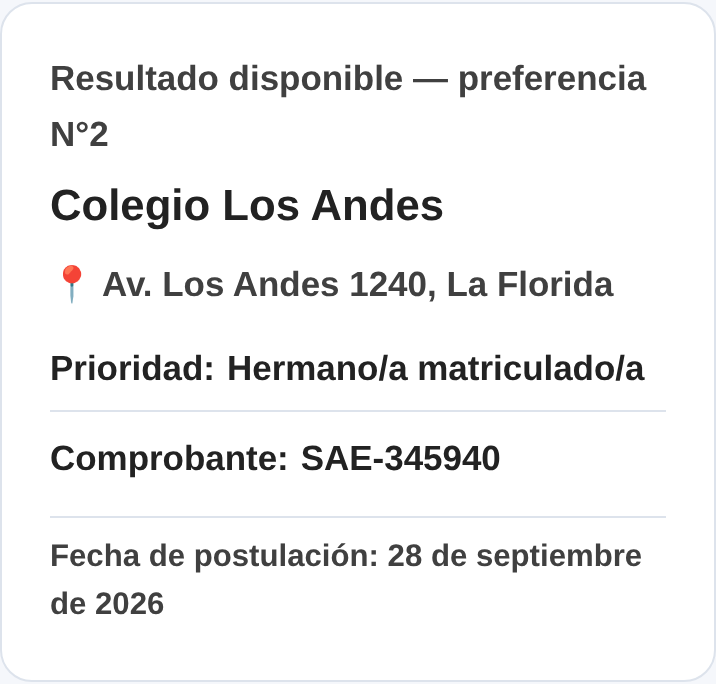
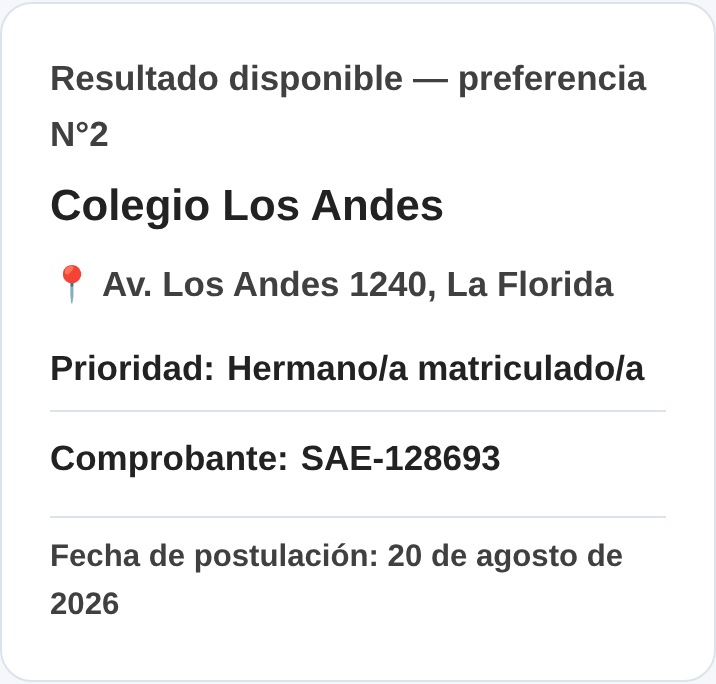
docs(tesis): aplica la revisión del Cap. 4 y corrige la Tabla 3.1
- Cap. 4: 2 bloqueantes y 16 observaciones del revisor-memoria aplicadas
  (etapa del Inicio, ClaveÚnica neutral, porcentaje vs. "X de cada 100",
  simplificación declarada, condición A/B, brechas anticipadas, tabla).
- Tabla 3.1 a longtable: desbordaba la página y se cortaban filas.
- Prototipo: "Estás en", "Tamaño de texto", "¿Es tu primera vez aquí?".
- Capturas regeneradas con fecha simulada del período de postulación.
- Plan: decisión n.º 8 (¿el SAE real usa ClaveÚnica?) y registro.

Claude-Session: https://claude.ai/code/session_01YAJGQMJ7mUVfTirNi6pa6u

diff --git a/sae-react/src/pages/InicioPage.jsx b/sae-react/src/pages/InicioPage.jsx
@@ -127,7 +127,7 @@ export default function InicioPage() {
         <div className="welcome-banner" role="region" aria-label="Bienvenida primera vez">
           <div className="welcome-banner__inner">
             <span className="welcome-banner__msg">
-              Es tu primera vez aquí? Te mostramos cómo funciona el SAE en 3 pasos cortos.
+              ¿Es tu primera vez aquí? Te mostramos cómo funciona el SAE en 3 pasos cortos.
             </span>
             <div className="welcome-banner__actions">
               <button

diff --git a/sae-react/src/components/TextSizeBar.jsx b/sae-react/src/components/TextSizeBar.jsx
@@ -12,10 +12,10 @@ export default function TextSizeBar({ pageName }) {
     <div className="context-bar" role="status" aria-live="polite">
       <div className="context-bar__inner">
         <p>
-          Estas en: <strong>{pageName}</strong>
+          Estás en: <strong>{pageName}</strong>
         </p>
         <div className="context-bar__text-size">
-          <span>Tamano de texto</span>
+          <span>Tamaño de texto</span>
           <button
             type="button"
             className={!textoGrande ? 'is-on' : ''}

diff --git a/proyecto-tesis/capitulos/04_propuesta.tex b/proyecto-tesis/capitulos/04_propuesta.tex
@@ -1,8 +1,8 @@
 \chapter{Propuesta}\label{cap:propuesta}
 
-Este capítulo presenta el prototipo desarrollado en la Fase~3 (Sección~\ref{sec:fase3-caso}) recorriéndolo pantalla por pantalla. Para cada pantalla se describe qué hace, qué brecha del diagnóstico del SAE real aborda (Sección~\ref{sec:res-diagnostico}) y qué principio de diseño aplica, sea de la revisión de literatura (Sección~\ref{sec:que-funciona}) o de los marcos de diseño de interacción humano-IA (Sección~\ref{sec:fase3-marcos}). El capítulo describe lo que se construyó; si esas decisiones mejoran la comprensión, la confianza y la percepción de justicia de las familias es lo que responderá el estudio comparativo (Sección~\ref{sec:estudio-comparativo}), cuyos resultados aún no existen.
+Este capítulo presenta el prototipo desarrollado en la Fase~3 (Sección~\ref{sec:fase3}) recorriéndolo pantalla por pantalla. Para cada pantalla se describe qué hace, qué brecha del diagnóstico del SAE real aborda y qué principio de diseño aplica, sea de la revisión de literatura (Sección~\ref{sec:que-funciona}) o de los marcos de diseño de interacción humano-IA (Sección~\ref{sec:fase3-marcos}). El capítulo describe lo que se construyó; si esas decisiones mejoran la comprensión, la confianza y la percepción de justicia de las familias es lo que responderá el estudio comparativo (Sección~\ref{sec:estudio-comparativo}), cuyos resultados aún no existen. Las brechas son las que el diagnóstico heurístico identificó como prioritarias y que se detallan en la Sección~\ref{sec:res-diagnostico}: transparencia y apertura (0\,\% de cumplimiento en el sitio informativo), inclusión (0\,\%), búsqueda y encontrabilidad, audiovisualidad, interoperabilidad con ClaveÚnica y legibilidad.
 
-Las capturas se tomaron del prototipo en funcionamiento, a 390~píxeles de ancho ---el tamaño de un teléfono, que es el acceso principal del arquetipo Daniela González---, recorriendo el caso de la familia Muñoz González con la lista y el orden fijos del estudio comparativo. Todos los establecimientos, personas y cifras que aparecen en ellas son ficticios.
+Las capturas se tomaron del prototipo en funcionamiento, a 390~píxeles de ancho ---el tamaño de un teléfono, que es el acceso principal del arquetipo Daniela González---, recorriendo el caso de la familia Muñoz González con la lista y el orden fijos del estudio comparativo. Los establecimientos, las personas y las cifras de los establecimientos que aparecen en ellas son ficticios; las fechas corresponden al calendario oficial del proceso de admisión 2027, y las capturas se tomaron simulando un día dentro del período de postulación.
 
 \section{Visión general}\label{sec:prop-general}
 
@@ -14,11 +14,11 @@ El prototipo es una aplicación web que reproduce los dos componentes del SAE ev
     \item \textbf{Conocer el resultado}: ver el establecimiento asignado y por qué (Sección~\ref{sec:prop-resultado}).
 \end{enumerate}
 
-Sobre esas pantallas se aplican de manera transversal los principios de la interfaz: español de Chile con tuteo, lenguaje claro de nivel sexto básico, diseño pensado primero para el teléfono, un tamaño de letra base aumentado con una opción ``Grande'' visible en cada página, y texto de alto contraste (Sección~\ref{sec:accesibilidad}). Además, el mismo prototipo puede funcionar en una \textbf{condición de control} que oculta toda la capa de explicación del algoritmo, requerida por el estudio comparativo (Sección~\ref{sec:prop-control}).
+Sobre esas pantallas se aplican de manera transversal los principios de la interfaz: español de Chile con tuteo, lenguaje claro de nivel sexto básico, diseño pensado primero para el teléfono, un tamaño de letra base aumentado con una opción ``Grande'' visible en cada página, y texto de alto contraste (Sección~\ref{sec:accesibilidad}). Las pantallas que siguen corresponden a la \textbf{condición~A} del estudio comparativo, el prototipo completo; el mismo prototipo puede funcionar también en la \textbf{condición~B}, de control, que oculta toda la capa de explicación del algoritmo (Sección~\ref{sec:prop-control}).
 
 \section{Informarse antes de postular}\label{sec:prop-informarse}
 
-\textbf{Inicio y ficha de establecimiento.} La página de inicio (Figura~\ref{fig:prop-inicio}, izquierda) muestra en qué etapa del proceso se está y hasta cuándo se puede postular, calculado a partir del calendario oficial, y ofrece un recorrido guiado para quien entra por primera vez. Debajo, un buscador por nombre o comuna permite ordenar los establecimientos, entre otros criterios, por demanda o por vacantes. Aborda la brecha de \emph{búsqueda y encontrabilidad} del diagnóstico. La ficha de cada establecimiento reúne en una sola página su identidad institucional, sus vacantes y postulantes del año anterior, y una estimación de la probabilidad de obtener un cupo sin ninguna prioridad, expresada como ``26 de cada 100 postulantes'' junto a una matriz de cien íconos (Figura~\ref{fig:prop-inicio}, derecha). Ese formato de frecuencia, en lugar de un porcentaje aislado, responde a la evidencia sobre comunicación de riesgo para audiencias con numeracidad básica-intermedia recogida en los marcos de diseño, y combina gráfico y cifra según el principio de presentación multidimensional.
+\textbf{Inicio y ficha de establecimiento.} La página de inicio (Figura~\ref{fig:prop-inicio}, izquierda) muestra la etapa del proceso y hasta cuándo se puede postular, y ofrece un recorrido guiado para quien entra por primera vez. Debajo, un buscador por nombre o comuna permite ordenar los establecimientos, entre otros criterios, por demanda o por vacantes. Aborda la brecha de \emph{búsqueda y encontrabilidad}, que el sitio oficial también cerró en parte con su vitrina de establecimientos después del diagnóstico (Sección~\ref{sec:res-sitio-oficial}). La ficha de cada establecimiento reúne en una sola página su identidad institucional, sus vacantes y postulantes del año anterior, y una estimación de la probabilidad de obtener un cupo sin ninguna prioridad, expresada como ``26 de cada 100 postulantes'' junto a una matriz de cien íconos (Figura~\ref{fig:prop-inicio}, derecha). Ese formato de frecuencia, en lugar de un porcentaje aislado, responde a la evidencia sobre comunicación de riesgo para audiencias con numeracidad básica-intermedia recogida en los marcos de diseño, y combina gráfico y cifra según el principio de presentación multidimensional.
 
 \begin{figure}[htbp]
 \centering
@@ -32,7 +32,7 @@ Sobre esas pantallas se aplican de manera transversal los principios de la inter
 \label{fig:prop-inicio}
 \end{figure}
 
-\textbf{Cómo funciona el algoritmo y el proceso paso a paso.} La sección ``¿Cómo funciona?'' (Figura~\ref{fig:prop-algoritmo}, izquierda) explica en pasos cortos cómo se asigna un establecimiento: la familia arma su lista, el sistema aplica las prioridades que fija la ley y, cuando hay más postulantes que cupos, un sorteo por establecimiento. Primero entrega lo esencial y deja el detalle para quien lo busca, según el principio de divulgación progresiva. Incluye un simulador en que la persona elige establecimientos y prioridades y ve el resultado, y una reproducción paso a paso de cómo el sistema recorre su lista, aplicando el principio de controles interactivos con retroalimentación. Es la respuesta directa a la brecha más severa del diagnóstico: el 0\,\% de cumplimiento en \emph{transparencia y apertura}, que se explica porque no existe ninguna sección que explique el algoritmo. La vista ``El proceso paso a paso'' (Figura~\ref{fig:prop-algoritmo}, derecha) ordena las cinco etapas oficiales ---postulación, asignación, resultados, período complementario y matrícula---, destaca cinco reglas de alto impacto antes de empezar e incluye el calendario del proceso de admisión 2027.
+\textbf{Cómo funciona el algoritmo y el proceso paso a paso.} La sección ``¿Cómo funciona?'' (Figura~\ref{fig:prop-algoritmo}, izquierda) explica en pasos cortos cómo se asigna un establecimiento: la familia arma su lista, el sistema aplica las prioridades que fija la ley y, cuando hay más postulantes que cupos, un sorteo por establecimiento. Primero entrega lo esencial y deja el detalle para quien lo busca, según el principio de divulgación progresiva. Incluye un simulador en que la persona elige establecimientos y prioridades y ve el resultado, y una reproducción paso a paso de cómo el sistema recorre su lista, aplicando el principio de controles interactivos con retroalimentación. Es la respuesta directa a una de las dos brechas con 0\,\% de cumplimiento en el diagnóstico, \emph{transparencia y apertura}, que se explica porque no existe ninguna sección que explique el algoritmo. La vista ``El proceso paso a paso'' (Figura~\ref{fig:prop-algoritmo}, derecha) ordena las cinco etapas oficiales ---postulación, asignación, resultados, período complementario y matrícula--- e indica cuál está en curso según la fecha, destaca cinco reglas de alto impacto antes de empezar e incluye el calendario del proceso de admisión 2027.
 
 \begin{figure}[htbp]
 \centering
@@ -48,11 +48,11 @@ Sobre esas pantallas se aplican de manera transversal los principios de la inter
 
 \section{El flujo de postulación}\label{sec:prop-postular}
 
-El flujo de postulación es el caso de estudio central de la validación. Reproduce los datos, las declaraciones y las reglas del SAE real ---documentados a partir del sitio oficial y del video instructivo del Ministerio de Educación---, y agrega sobre ellos la capa de explicación que el sistema real no tiene.
+El flujo de postulación es el caso de estudio central de la validación. Reproduce los datos y las reglas del SAE real, y la mayoría de sus declaraciones ---documentados a partir del sitio oficial y del video instructivo del Ministerio de Educación---, con una simplificación deliberada que se indica en el paso~3, y agrega sobre ellos la capa de explicación que el sistema real no tiene.
 
 \subsection{Paso 1: identificarse}
 
-Tras ingresar con ClaveÚnica, la familia ve a sus hijos e hijas registrados en el Estado, con el curso que cursa hoy cada uno, su establecimiento actual y el curso al que entraría si postula (Figura~\ref{fig:prop-paso1}, izquierda). Nadie viene marcado: la familia elige a quién postular. Si marca a más de uno, la pantalla explica la postulación familiar en bloque, y a quien no se marca le explica que sigue en su establecimiento y no pierde su matrícula. Después, los datos de la estudiante y el domicilio aparecen ya cargados, para que la familia los \textbf{verifique} en lugar de escribirlos, con una opción para corregirlos, y se declara ser su apoderado o apoderada legal (Figura~\ref{fig:prop-paso1}, derecha). La precarga desde ClaveÚnica aborda la brecha de \emph{interoperabilidad}: en la plataforma real la cuenta de apoderado se crea por separado, pese a que ClaveÚnica ya contiene esos datos.
+Tras ingresar con ClaveÚnica, la familia ve a sus hijos e hijas registrados en el Estado, con el curso que cursa hoy cada uno, su establecimiento actual y el curso al que entraría si postula (Figura~\ref{fig:prop-paso1}, izquierda). Nadie viene marcado: la familia elige a quién postular. Si marca a más de uno, la pantalla explica la postulación familiar en bloque, y a quien no se marca le explica que sigue en su establecimiento y no pierde su matrícula. Después, los datos de la estudiante y el domicilio aparecen ya cargados, para que la familia los \textbf{verifique} en lugar de escribirlos, con una opción para corregirlos, y se declara ser su apoderado o apoderada legal (Figura~\ref{fig:prop-paso1}, derecha). El ingreso con ClaveÚnica, en lugar de una cuenta y contraseña propias de la plataforma, responde a la brecha de \emph{interoperabilidad} del diagnóstico. En este paso hay además un recuadro desplegable, ``Antes de empezar: cómo se decide tu resultado'', que resume qué considera el algoritmo y qué no ---no hay puntaje, notas ni mérito--- antes de pedir cualquier dato.
 
 \begin{figure}[htbp]
 \centering
@@ -68,7 +68,7 @@ Tras ingresar con ClaveÚnica, la familia ve a sus hijos e hijas registrados en 
 
 \subsection{Paso 2: armar y ordenar la lista}
 
-El paso~2 separa el catálogo de establecimientos disponibles (Figura~\ref{fig:prop-paso2}, izquierda) de la lista propia, ordenada por preferencia (Figura~\ref{fig:prop-paso2}, derecha). Como en el SAE real, no hay tope de establecimientos y la región funciona como filtro, no como restricción. En la lista, cada establecimiento muestra su número de preferencia, su demanda, sus vacantes y la probabilidad estimada de obtener un cupo ---26 de cada 100 en el Colegio San Martín, donde la familia no tiene ningún vínculo, y 99 de cada 100 en el Colegio Los Andes, donde estudia una hermana---. Debajo, un recuadro indica la prioridad que la familia tiene \textbf{en ese establecimiento}: hermano o hermana, hijo o hija de funcionario y exalumno o exalumna son prioridades que valen solo en el colegio correspondiente. Esta es una explicación contextualizada a la situación de la familia y no una descripción general del sistema. La lista se reordena con botones o arrastrando, y un lector de pantalla anuncia cada cambio.
+El paso~2 separa el catálogo de establecimientos disponibles (Figura~\ref{fig:prop-paso2}, izquierda) de la lista propia, ordenada por preferencia (Figura~\ref{fig:prop-paso2}, derecha). Como en el SAE real, no hay tope de establecimientos ni restricción regional. En la lista, cada establecimiento muestra su número de preferencia, su demanda, sus vacantes y la probabilidad estimada de obtener un cupo, como un porcentaje breve junto al nombre ---26\,\% en el Colegio San Martín, donde la familia no tiene ningún vínculo, y 99\,\% en el Colegio Los Andes, donde estudia una hermana---; para lectores de pantalla, la misma cifra se anuncia como ``X de cada 100''. Debajo, un recuadro indica la prioridad que la familia tiene \textbf{en ese establecimiento}: hermano o hermana, hijo o hija de funcionario y exalumno o exalumna son prioridades que valen solo en el colegio correspondiente. Esta es una explicación contextualizada a la situación de la familia y no una descripción general del sistema. La lista se reordena con botones o arrastrando, y un lector de pantalla anuncia cada cambio.
 
 \begin{figure}[htbp]
 \centering
@@ -86,7 +86,7 @@ La decisión de diseño más directamente ligada a la pregunta de investigación
 
 \subsection{Paso 3: revisar y enviar}
 
-El paso~3 resume la postulación completa antes de enviarla, con un enlace para editar cada sección, la postulación en bloque con el hermano y la fecha límite del proceso (Figura~\ref{fig:prop-paso3}, derecha). La aceptación de la jornada y del proyecto educativo de los establecimientos, que el SAE real exige, se pide una sola vez al enviar, para toda la lista. Al confirmar, la familia puede descargar un comprobante.
+El paso~3 resume la postulación completa antes de enviarla, con un enlace para editar cada sección, la postulación en bloque con el hermano y la fecha límite del proceso (Figura~\ref{fig:prop-paso3}, derecha). Aquí está la simplificación deliberada respecto del SAE real: allí la jornada y el proyecto educativo se aceptan por cada establecimiento, mientras que en el prototipo se informan una sola vez al enviar, para toda la lista, porque su repetición idéntica en cada establecimiento agregaba texto sin información nueva para la familia. Al confirmar, la familia puede descargar un comprobante.
 
 \begin{figure}[htbp]
 \centering
@@ -120,7 +120,7 @@ Debajo, la sección ``¿Por qué te asignaron este colegio?'' (Figura~\ref{fig:p
 
 \section{La condición de control}\label{sec:prop-control}
 
-El estudio comparativo necesita una versión del prototipo sin la capa de explicación, que funcione como aproximación al SAE real. En lugar de construir una segunda aplicación, el mismo prototipo tiene un modo de control que el moderador activa al inicio de cada sesión. En ese modo se ocultan la sección que explica el algoritmo, las probabilidades estimadas, el recuadro sobre el orden de la lista y la explicación del resultado; se conservan los elementos que son fidelidad al sistema real, como la precarga de datos, la prioridad de la familia en cada establecimiento y las declaraciones. La Figura~\ref{fig:prop-control} muestra las mismas dos pantallas que en la condición completa: la lista sin probabilidades (compárese con la Figura~\ref{fig:prop-paso2}) y el resultado sin su explicación (compárese con la Figura~\ref{fig:prop-resultado}). Como la lógica de asignación es la misma, el establecimiento asignado es idéntico en ambas condiciones.
+El estudio comparativo necesita una versión del prototipo sin la capa de explicación, que funcione como aproximación al SAE real: la condición~B. En lugar de construir una segunda aplicación, el mismo prototipo tiene un modo de control que el moderador activa al inicio de cada sesión. En ese modo se ocultan la sección que explica el algoritmo, el recuadro inicial sobre cómo se decide el resultado, las probabilidades estimadas, el recuadro sobre el orden de la lista y la explicación del resultado; se conservan el flujo de ingreso y verificación de datos, la prioridad de la familia en cada establecimiento y las declaraciones. La Figura~\ref{fig:prop-control} muestra las mismas dos pantallas que en la condición~A: la lista sin probabilidades (compárese con la Figura~\ref{fig:prop-paso2}) y el resultado sin su explicación (compárese con la Figura~\ref{fig:prop-resultado}). Como la lógica de asignación es la misma, el establecimiento asignado es idéntico en ambas condiciones.
 
 \begin{figure}[htbp]
 \centering
@@ -130,29 +130,29 @@ El estudio comparativo necesita una versión del prototipo sin la capa de explic
 \begin{minipage}[t]{0.44\textwidth}\centering
 \includegraphics[width=\linewidth,height=0.6\textheight,keepaspectratio]{imagenes/propuesta/B-resultado.png}
 \end{minipage}
-\caption{Condición de control: la lista sin probabilidades (izquierda) y el resultado sin explicación (derecha).}
+\caption{Condición~B (control): la lista sin probabilidades (izquierda) y el resultado sin explicación (derecha).}
 \label{fig:prop-control}
 \end{figure}
 
 \section{Síntesis: brechas y principios}\label{sec:prop-sintesis}
 
-La Tabla~\ref{tab:prop-sintesis} resume qué elemento de la propuesta aborda cada brecha del diagnóstico y con qué principio. La brecha de \emph{audiovisualidad} no se aborda: el prototipo no incorpora videos ni infografías animadas, lo que queda como trabajo futuro.
+La Tabla~\ref{tab:prop-sintesis} resume qué elemento de la propuesta aborda cada brecha del diagnóstico y con qué principio. La brecha de \emph{audiovisualidad} se aborda solo en parte: la reproducción animada del algoritmo y la matriz de íconos de la ficha son apoyos visuales, pero el prototipo no incorpora videotutoriales, que quedan como trabajo futuro.
 
 \begin{table}[htbp]
 \centering
 \caption{Elementos de la propuesta, brecha del diagnóstico que abordan y principio de diseño que aplican.}
 \label{tab:prop-sintesis}
 \small
-\begin{tabular}{p{4.2cm}p{3.6cm}p{5.2cm}}
+\begin{tabular}{p{4.0cm}p{3.3cm}p{4.9cm}}
 \toprule
 \textbf{Elemento} & \textbf{Brecha} & \textbf{Principio} \\
 \midrule
 Explicación del algoritmo, simulador y reproducción paso a paso & Transparencia y apertura & Divulgación progresiva; controles interactivos con retroalimentación \\
-Probabilidad por establecimiento en formato ``X de cada 100'' & Transparencia y apertura & Presentación multidimensional; comunicación de riesgo \\
-Explicación de qué hace el orden de la lista & Transparencia y apertura & Gestión de expectativas; \emph{strategy-proofness} \\
+Probabilidad estimada: ``X de cada 100'' con matriz de íconos en la ficha, porcentaje en la lista & Transparencia y apertura & Presentación multidimensional; comunicación de riesgo \\
+Explicación de qué hace el orden de la lista & Transparencia y apertura & Explicabilidad contextualizada; \emph{strategy-proofness} de la Aceptación Diferida \\
 Explicación del resultado & Transparencia y apertura & Explicabilidad contextualizada \\
-Buscador, orden de la vitrina y ficha & Búsqueda y encontrabilidad & Presentación multidimensional \\
-Precarga de datos desde ClaveÚnica & Interoperabilidad & Fidelidad al SAE real: la familia verifica los datos en lugar de escribirlos \\
+Buscador y orden de la vitrina & Búsqueda y encontrabilidad & --- (el sitio oficial la cerró en parte) \\
+Ingreso con ClaveÚnica & Interoperabilidad & --- \\
 Lenguaje claro, letra aumentada y alto contraste & Legibilidad e inclusión & Accesibilidad web \\
 \bottomrule
 \end{tabular}

diff --git a/proyecto-tesis/capitulos/03_metodologia.tex b/proyecto-tesis/capitulos/03_metodologia.tex
@@ -16,7 +16,7 @@ En paralelo, se realizó una revisión sistemática de 96 publicaciones académi
 
 Como antecedente directo y motivación inicial de este trabajo, cabe mencionar que un estudio previo del mismo equipo autor —centrado específicamente en el módulo de explicación del resultado de asignación y construido como maqueta estática en Figma— fue sometido a una prueba de usabilidad con diez personas, con resultados favorables en comprensión y confianza percibida. Ese estudio, sin embargo, corresponde a un artefacto y a una instancia de evaluación \textbf{distintos} de los abordados en esta memoria: se cita aquí únicamente como antecedente que motivó la decisión de profundizar y ampliar el prototipo al resto del flujo del SAE, no como resultado propio de este trabajo. La evaluación del prototipo desarrollado en esta memoria (Fase~3) queda descrita como pendiente en la Sección~\ref{sec:validacion}.
 
-\section{Fase 3 — Diseño y construcción iterativa del prototipo}
+\section{Fase 3 — Diseño y construcción iterativa del prototipo}\label{sec:fase3}
 
 \subsection{Caso de estudio y persona}\label{sec:fase3-caso}
 
@@ -34,15 +34,19 @@ Las decisiones de diseño del prototipo se apoyaron en dos insumos de naturaleza
 
 A diferencia de un desarrollo de software convencional con un único entregable final, este prototipo se construyó como una sucesión de iteraciones documentadas, cada una guiada por un documento de especificación explícito redactado por el autor y ejecutada con apoyo de un agente de IA generativa como herramienta de programación asistida (ver Capítulo~\ref{cap:marco}, Sección~\ref{sec:prototipado-ia}). La Tabla~\ref{tab:iteraciones} resume esta cronología, reconstruida a partir del historial de control de versiones del proyecto.
 
-\begin{table}[h]
-\centering
-\caption{Cronología de iteraciones del prototipo (mayo--septiembre de 2026).}
-\label{tab:iteraciones}
-\small
-\begin{tabular}{p{2.2cm}p{9.5cm}}
+{\small
+\begin{longtable}{p{2.2cm}p{9.5cm}}
+\caption{Cronología de iteraciones del prototipo (mayo--septiembre de 2026).}\label{tab:iteraciones}\\
 \toprule
 \textbf{Fecha} & \textbf{Hito} \\
 \midrule
+\endfirsthead
+\toprule
+\textbf{Fecha} & \textbf{Hito} \\
+\midrule
+\endhead
+\bottomrule
+\endlastfoot
 Mayo (semana 1) & Redacción de \texttt{CLAUDE.md} (especificación base del proyecto) y construcción de la \textbf{Iteración~1}: prototipo HTML autocontenido de una sola página (\texttt{prototipo\_SAE\_mejora.html}), que cubre las cinco secciones mínimas exigidas por el diagnóstico (inicio, módulo de algoritmo, ficha de colegio, flujo de postulación, panel de seguimiento). \\
 Mayo (semana 2) & Redacción de \texttt{CLAUDE\_v2.md} (especificación de mejoras) e incorporación de los documentos de investigación de soporte (revisión de literatura, informe heurístico, plan de metodología). Construcción de la \textbf{Iteración~2}: segunda versión HTML (\texttt{prototipo\_SAE\_v2.html}) que corrige limitaciones técnicas de la V1 (responsividad limitada a dos \emph{breakpoints}, buscador no funcional, simulador con lógica simplificada) y agrega funcionalidades nuevas: comparador de colegios, calendario interactivo, y una lógica de simulación más cercana al mecanismo de Aceptación Diferida. \\
 Mayo (semana 3) & \textbf{Migración de arquitectura}: el prototipo HTML monolítico se reescribe como aplicación \textbf{React + Vite}, con el objetivo de pasar de un archivo estático a una arquitectura de componentes mantenible y extensible. El contenido textual de la versión HTML se extrae programáticamente para no perder el trabajo de redacción ya validado. \\
@@ -61,9 +65,8 @@ Agosto (semana 4) & A partir del \textbf{análisis del video oficial del MINEDUC
 Septiembre (semana 1) & \textbf{Reescritura del modelo de estimación de probabilidad} (autorizada de forma explícita por el autor): se elimina la tabla fija de probabilidades por nivel de prioridad y demanda, y el umbral de asignación asociado, que no tenían calibración empírica ni representaban el mecanismo de Aceptación Diferida. En su lugar, para cada establecimiento el prototipo simula la competencia por sus cupos —vacantes y postulantes del año anterior reales del catálogo, una multitud sintética de postulantes con tramos de prioridad muestreados de una distribución poblacional documentada, la cuota del 15\,\% modelada como reserva de asientos y un sorteo aleatorio independiente por colegio— y estima la probabilidad por método de Monte Carlo (mil repeticiones con semilla fija). En paralelo se revisa el caso de estudio: la familia Muñoz González deja de tener condiciones transversales (cuota del 15\,\% y Programa de Integración Escolar), de modo que el ``Colegio San Martín'' —sin vínculo y de alta demanda— quede con una probabilidad genuinamente baja. La matriz de categorías/puntos no cambia; la lógica de asignación sí se reescribió de forma deliberada. \\
 Septiembre (semanas 1--2) & \textbf{Preparación del estudio comparativo} (Sección~\ref{sec:estudio-comparativo}). El primer paso del flujo pasa a un modo de \textbf{verificación}: la identidad, el domicilio y el grupo familiar llegan precargados desde el inicio de sesión simulado vía ClaveÚnica, y la familia los revisa en lugar de tipearlos, como en el SAE real. Se retira el guardado de borrador entre visitas, para que el estado de una sesión no pase a la siguiente. La explicación del resultado se reescribe para decir por qué no se obtuvo cada establecimiento no asignado ---más familias que cupos, ausencia de vínculo con ese establecimiento y un sorteo que vale solo para él---, y la ficha de resultado suma los pasos siguientes con sus fechas y las consecuencias de aceptar o rechazar. Se implementa la \textbf{condición de control}: un modo del mismo prototipo que oculta toda la capa de explicación del algoritmo, sin alterar el resultado de la asignación. Una auditoría independiente motiva además correcciones puntuales, entre ellas que el sorteo de cada establecimiento use su propia semilla, de modo que el desenlace en un colegio no dependa de su posición en la lista. \\
 Septiembre (semanas 2--4) & \textbf{Reducción de la carga de texto y verificación del grupo familiar}, a partir de la retroalimentación de la profesora guía sobre la densidad de la interfaz para el arquetipo Daniela González. Se sube el tamaño de fuente base de todo el sitio y el contraste del texto; los recuadros explicativos extensos pasan a ser desplegables y se consolidan los avisos redundantes; el armado de la lista se separa en dos vistas (catálogo y lista propia), y la probabilidad estimada se muestra como una etiqueta breve junto a cada establecimiento. La confirmación de la jornada y del proyecto educativo pasa de repetirse al agregar cada colegio a hacerse una sola vez, antes de enviar la postulación. En el primer paso, la familia elige dentro de su grupo familiar a quiénes postula, con una explicación de qué ocurre con quienes no postulan y de la postulación en bloque. Ninguno de estos cambios modifica la lógica de asignación ni la matriz de categorías/puntos. \\
-\bottomrule
-\end{tabular}
-\end{table}
+\end{longtable}
+}
 
 \emph{Nota:} todas las iteraciones de la Tabla~\ref{tab:iteraciones}, incluidas las de agosto y septiembre de 2026, están registradas en el historial de control de versiones del proyecto. Las iteraciones posteriores a la fijación de la matriz en 22 categorías no añadieron categorías ni puntos de verificación. La mayoría fueron refinamientos de fidelidad, de comunicación y de arquitectura de información sobre funcionalidades ya contabilizadas; la excepción es la reescritura del modelo de estimación de probabilidad de septiembre de 2026, que sí modificó la lógica de asignación de forma deliberada y documentada (descrita en la subsección \emph{Caso de estudio y persona}, más arriba).
 
@@ -110,7 +113,7 @@ El segundo componente de la validación es un estudio con usuarios centrado en e
 \caption{Constructos del instrumento post-tarea (escala Likert 1--5).}
 \label{tab:instrumento}
 \small
-\begin{tabular}{p{3.2cm}p{1.4cm}p{8.2cm}}
+\begin{tabular}{p{3.0cm}p{1.3cm}p{7.9cm}}
 \toprule
 \textbf{Constructo} & \textbf{Ítems} & \textbf{Qué mide} \\
 \midrule

diff --git a/proyecto-tesis/scripts/publicar_web.py b/proyecto-tesis/scripts/publicar_web.py
@@ -86,7 +86,7 @@ def preparar_tex(labels):
             if lab and lab.group(1) in labels:
                 bloque = bloque.replace("\\caption{", f"\\caption{{Tabla {labels[lab.group(1)]}. ", 1)
             return bloque
-        t = re.sub(r"\\begin\{table\}.*?\\end\{table\}", tabla, t, flags=re.S)
+        t = re.sub(r"\\begin\{(long)?table\}.*?\\end\{(long)?table\}", tabla, t, flags=re.S)
         # Figuras: "Figura N." delante del caption (el número sale del .aux).
         def figura(m):
             bloque = m.group(0)

diff --git a/proyecto-tesis/main.tex b/proyecto-tesis/main.tex
@@ -18,6 +18,7 @@
 % ============================================================
 \usepackage{graphicx}
 \usepackage{booktabs}
+\usepackage{longtable}  % Tabla 3.1 (cronología) ocupa más de una página
 \graphicspath{{imagenes/}}
 
 % ============================================================

diff --git a/proyecto-tesis/PLAN_REDACCION.md b/proyecto-tesis/PLAN_REDACCION.md
@@ -113,6 +113,7 @@ Numeración real del PDF (desde el 2026-09-24 el Resumen no lleva número): Intr
 4. Placeholders de portada: `\carreraTesis`, `\gradoTesis`, `\directorTesis`.
 5. **Coherencia problema → objetivos → método** (detectado el 2026-09-27 con la revisión en cadena): (a) Obj. 4 menciona la maqueta Figma como parte del trabajo, mientras el Cap. 3 la declara un estudio distinto; (b) Obj. 5 mide "claridad, confianza y utilidad percibida", pero la pregunta y el instrumento miden comprensión, confianza y percepción de justicia; (c) "significativamente" en la pregunta de investigación frente a un análisis principalmente descriptivo. Propuesta mínima, para aprobar: Obj. 4 → "Construir un prototipo funcional de aplicación web…"; Obj. 5 → "Evaluar, mediante un estudio comparativo con usuarios, si la explicación del algoritmo mejora la comprensión, la confianza y la percepción de justicia"; pregunta → quitar "significativamente".
 6. **Abstract en inglés y Anexos** (cuestionario, guion de moderador, consentimiento): confirmar el formato exigido por la UTFSM antes de agregarlos.
+8. **¿El SAE real usa ClaveÚnica?** Las fuentes del proyecto se contradicen: `05_resultados.tex` (`sec:res-sitio-oficial`) dice que la plataforma sigue exigiendo una cuenta propia con RUT/IPA y contraseña, mientras la bitácora (Bloque S) dice que el SAE real precarga los datos tras ingresar con ClaveÚnica. Afecta cómo se describe la brecha de interoperabilidad y qué tan fiel es la condición B (que ingresa con ClaveÚnica). El Cap. 4 quedó redactado de forma neutral hasta resolverlo; verificar en el sitio oficial vigente.
 7. **Referencias del Bloque B con título no verificado:** 9 entradas citadas imprimen "(VERIFICAR…)" en la bibliografía del PDF. Hay que conseguir el título, venue y año reales de cada paper; ver `bibliografia/bibliografia_anotada.md`.
 
 ---
@@ -123,7 +124,7 @@ Numeración real del PDF (desde el 2026-09-24 el Resumen no lleva número): Intr
 - **Cómo se actualiza** (lo hace la sesión principal, no el `writing-agent`, que no tiene la herramienta de publicación), después de cerrar y verificar una sección:
   1. `cd proyecto-tesis && latexmk main.tex` (los números de sección y tabla salen de `build/main.aux`).
   2. `python3 scripts/publicar_web.py` → `build/web/memoria.html` (requiere `pandoc`; si falta, `apt-get install -y pandoc`).
-  3. Publicar ese archivo como Artifact **con `url` = el link de arriba** (en una sesión nueva, leerlo primero con `action: read`). Publicar sin `url` crea otro link.
+  3. Publicar ese archivo como Artifact **con `url` = el link de arriba** (en una sesión nueva, leerlo primero con `action: read`). Publicar sin `url` crea otro link. Las figuras van en el parámetro `files`, con clave `imagenes/propuesta/<archivo>.png` y la **ruta absoluta** como fuente; solo hace falta volver a subirlas si cambian (los archivos omitidos se conservan).
 - La página muestra el estado de cada capítulo leído de este archivo (sec. 2): ⏸ en el título → "Espera datos"; alguna fila 🔄/🟡/❓ → "En revisión"; si no, "Vigente". Mantener esas marcas al día cambia lo que ve el autor.
 - El PDF sigue siendo el documento oficial; la web es una vista de lectura (Pandoc, citas autor-año desde `referencias.bib`).
 
@@ -138,3 +139,4 @@ Numeración real del PDF (desde el 2026-09-24 el Resumen no lleva número): Intr
 | 2026-09-27 | Cap. 3 §3.4.1 | + párrafo **Variables** (independiente: condición; dependientes: 3 constructos; constantes: caso/lista/orden/desenlace/tareas/instrumento; covariables) | `verificar_memoria.py` 0 errores; `latexmk` OK |
 | 2026-09-27 | Herramientas | `bibliografia/bibliografia_anotada.md` (32 fichas generadas del `.bib` y de las citas reales; verificación ⏳); verificador + avisos de afirmaciones absolutas y de marcadores VERIFICAR citados; `writing-agent` + cadena de coherencia; nuevo agente `revisor-memoria` | — |
 | 2026-09-27 | Cap. 3 §3.3, §3.4.1; Cap. 5 §5.3 | Primera prueba del `revisor-memoria` (1 🔴, 7 🟡), todo aplicado: nombres de 3 establecimientos corregidos según `colegios.js`; 8 tareas (identificarse y seleccionar el grupo familiar separadas); H3 sin la atribución no verificada a Springer & Whittaker; variables (sondeos por rama, predicción codificada); asignación y estratificación; comparaciones por ítem exploratorias; "prueba de usabilidad" → estudio comparativo en §3.3; Sec. 5.3 con las amenazas a la validez | verificador 0 errores; `latexmk` OK |
+| 2026-09-28 | Cap. 4 Propuesta (nuevo) | Capítulo con 14 capturas; capítulos siguientes renumerados (5–7). Primera revisión del `revisor-memoria` como agente propio (2 🔴, 16 🟡), todo aplicado salvo lo que depende del autor: Inicio no calcula la etapa por fecha (sí `/proceso`); ClaveÚnica redactado neutral (decisión n.º 8); chip = porcentaje, "X de cada 100" solo en ficha/lector de pantalla; sin restricción regional (no "filtro"); simplificación de jornada/proyecto declarada; fechas del calendario oficial; "una de las dos brechas con 0 %"; tabla síntesis sin "gestión de expectativas" ni principio forzado para el buscador; audiovisualidad parcial; recuadro "cómo se decide" en paso 1 y en lo que oculta B; condición A/B; `sec:fase3`; brechas anticipadas en la intro. Prototipo: "Estás en", "Tamaño de texto", "¿Es tu primera vez…?" (lint/build/test 16/16); capturas con fecha simulada 20-08-2026. **Tabla 3.1 pasa a `longtable`**: desbordaba la página y se cortaban filas (el PDF crece de 54 a 58 páginas) | verificador 0 errores; `latexmk` OK sin "Float too large"; web republicada con figuras |

diff --git a/CLAUDE.md b/CLAUDE.md
@@ -42,7 +42,7 @@ El prototipo demuestra cómo aplicar transparencia algorítmica al SAE; la memor
 
 ## Estado del proyecto (septiembre 2026)
 
-- **Nuevo Cap. 4 "Propuesta" con 14 capturas del prototipo (2026-09-28, pedido del autor).** La memoria no tenía ninguna figura. `capitulos/04_propuesta.tex` recorre el prototipo pantalla por pantalla (informarse → paso 1/2/3 → resultado y su explicación → condición de control A vs. B → tabla síntesis brecha/principio), remitiendo a `sec:res-diagnostico`, `sec:que-funciona` y `sec:fase3-marcos` sin citas nuevas. Capturas en `proyecto-tesis/imagenes/propuesta/`, reproducibles con `scripts/capturas_propuesta.mjs` (Playwright a 390 px, caso Muñoz González con lista y orden canónicos). **Capítulos renumerados** (`git mv`): Resultados → `05_resultados.tex` (Cap. 5), Discusión → `06` (Cap. 6), Conclusiones → `07` (Cap. 7); las referencias son `\ref`, así que se ajustaron solas. Los agentes ahora nombran los capítulos por título, no por número. El título "Resultados" se mantiene (decisión del autor). `verificar_memoria.py` + chequeo de figuras inexistentes; la versión web incluye las figuras. `latexmk` OK (54 páginas).
+- **Nuevo Cap. 4 "Propuesta" con 14 capturas del prototipo (2026-09-28, pedido del autor).** La memoria no tenía ninguna figura. `capitulos/04_propuesta.tex` recorre el prototipo pantalla por pantalla (informarse → paso 1/2/3 → resultado y su explicación → condición de control A vs. B → tabla síntesis brecha/principio), remitiendo a `sec:res-diagnostico`, `sec:que-funciona` y `sec:fase3-marcos` sin citas nuevas. Capturas en `proyecto-tesis/imagenes/propuesta/`, reproducibles con `scripts/capturas_propuesta.mjs` (Playwright a 390 px, caso Muñoz González con lista y orden canónicos). **Capítulos renumerados** (`git mv`): Resultados → `05_resultados.tex` (Cap. 5), Discusión → `06` (Cap. 6), Conclusiones → `07` (Cap. 7); las referencias son `\ref`, así que se ajustaron solas. Los agentes ahora nombran los capítulos por título, no por número. El título "Resultados" se mantiene (decisión del autor). `verificar_memoria.py` + chequeo de figuras inexistentes; la versión web incluye las figuras. `latexmk` OK. **Tras la revisión del `revisor-memoria` (mismo día):** 2 🔴 y 16 🟡 aplicados (detalle en `PLAN_REDACCION.md` §6); ortografía de la interfaz corregida en el prototipo (`TextSizeBar.jsx`: "Estás en", "Tamaño de texto"; `InicioPage.jsx`: "¿Es tu primera vez aquí?"; lint 0/0, build, test 16/16); capturas con fecha simulada dentro del período de postulación; **Tabla 3.1 → `longtable`** (se cortaban filas; `\usepackage{longtable}` en `main.tex`), PDF de 58 páginas; versión web republicada con las figuras. **Nueva decisión del autor (plan §4 n.º 8):** las fuentes se contradicen sobre si el SAE real usa ClaveÚnica.
 
 - **Versión web de la memoria para leer desde el celular (2026-09-28).** `proyecto-tesis/scripts/publicar_web.py` + `scripts/web/plantilla.html`: une los capítulos, reemplaza `\ref` por los números reales de `build/main.aux`, convierte con Pandoc (citas autor-año) y marca cada capítulo con su estado según `PLAN_REDACCION.md`. Una columna de lectura, índice desplegable, tamaño de letra ajustable, modo oscuro, recuerda la posición de lectura. Publicada como Artifact privado: https://claude.ai/artifact/Mh5i39RR2g7rC8scU4iXE2 — se republica en el mismo link tras cada sección cerrada (`PLAN_REDACCION.md` §5). Verificada a 390 px sin desborde horizontal. `pandoc` y TeX Live se instalan vía apt en la sesión (no persisten entre contenedores).
 
